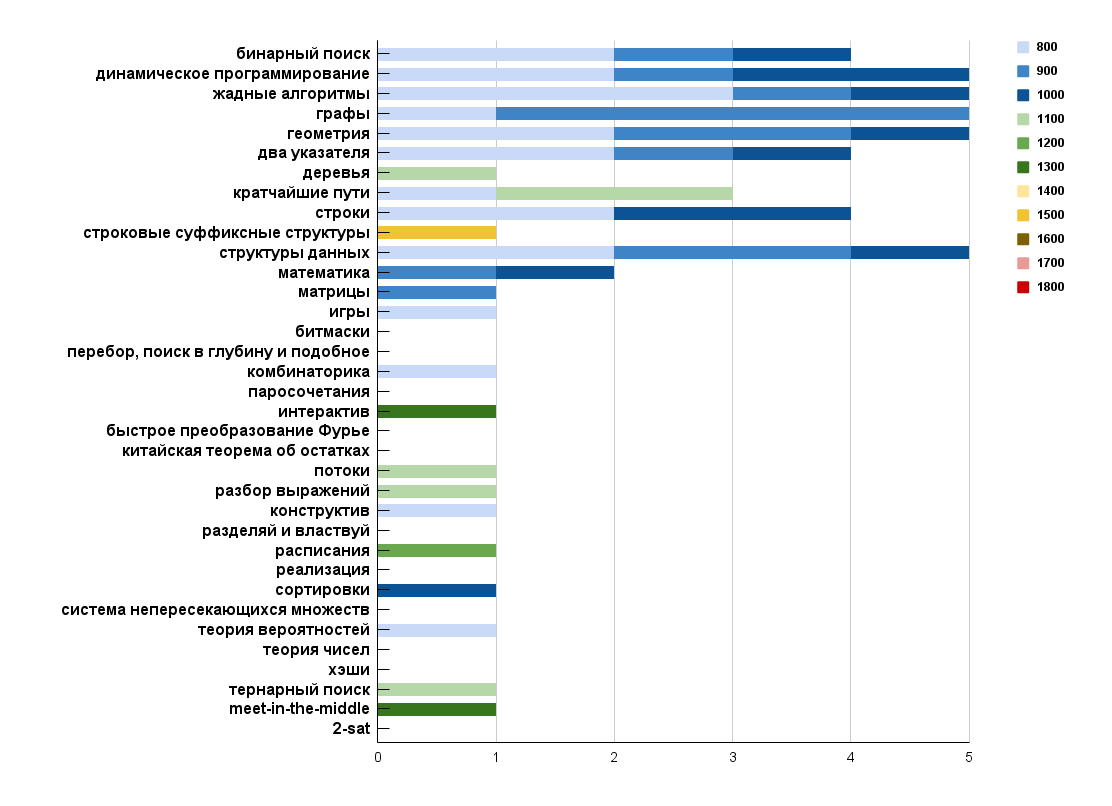
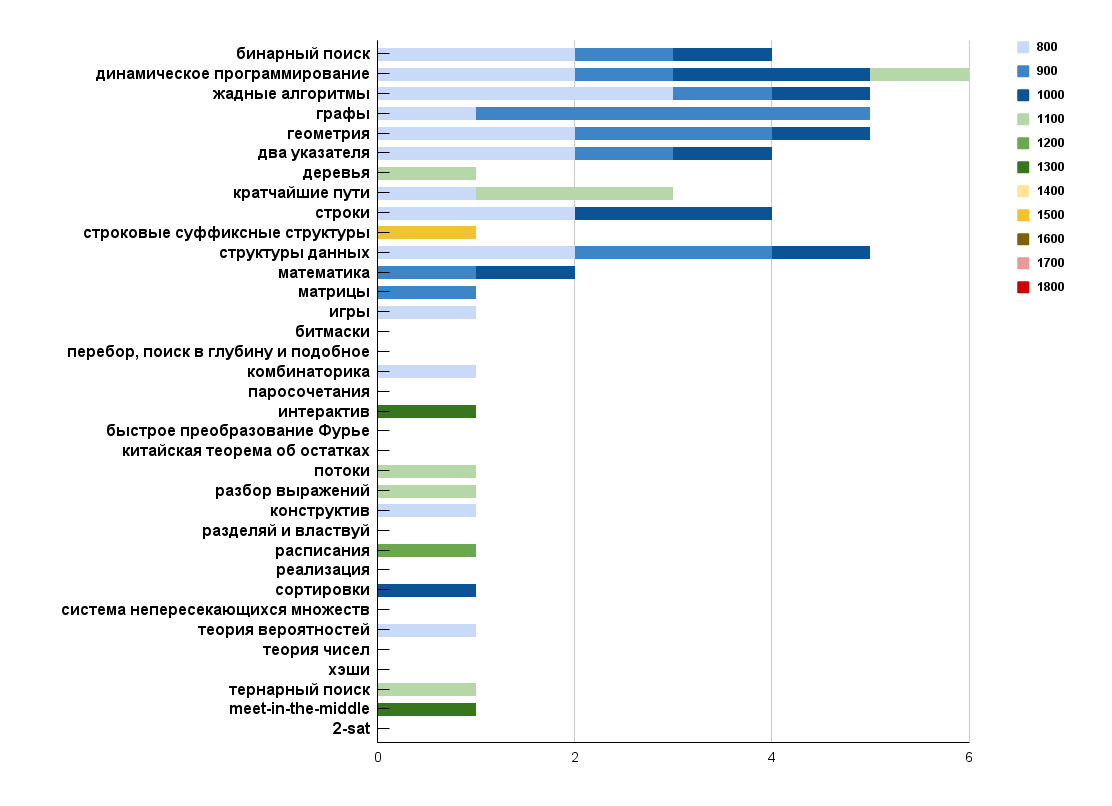
Solve 1100 in dp.

diff --git a/kotlin/CodeforcesArchive/src/main/kotlin/dp/compl_1100/1904B_Collection_game.kt b/kotlin/CodeforcesArchive/src/main/kotlin/dp/compl_1100/1904B_Collection_game.kt
@@ -1,0 +1,55 @@
+package dp.compl_1100
+
+fun main(){
+    val t = readln().toInt()
+    repeat(t){
+        val n = readln().toInt()
+        val a = readln().split(" ")
+            .map { it.toLong() }
+            .mapIndexed{ind, el -> el to ind + 1}
+            .toMutableList()
+        a.add(0, 0L to 0)
+        a.sortWith { pair1, pair2 ->
+            if (pair1.first > pair2.first){
+                1
+            }
+            else if (pair1.first < pair2.first){
+                -1
+            }
+            else {
+                if (pair1.second > pair2.second){
+                    1
+                }
+                else if (pair1.second < pair2.second){
+                    -1
+                }
+                else {
+                    0
+                }
+            }
+        }
+        //println(a)
+        val next = IntArray(n + 1)
+        val prefSum = LongArray(n + 1)
+        val ans = IntArray(n + 1)
+        for (i in 1..n){
+            if (next[i - 1] >= i){
+                next[i] = next[i - 1]
+                prefSum[i] = prefSum[i - 1]
+            }
+            else {
+                prefSum[i] = prefSum[i - 1] + a[i].first
+                next[i] = i
+                while (next[i] + 1 <= n && prefSum[i] >= a[next[i] + 1].first){
+                    ++next[i]
+                    prefSum[i] += a[next[i]].first
+                }
+            }
+            ans[a[i].second] = next[i]
+        }
+        for (i in 1..n){
+            print((ans[i] - 1).toString() + " ")
+        }
+        println()
+    }
+}

diff --git a/kotlin/CodeforcesArchive/src/main/kotlin/greedy/compl_1000/2039B_Shohag_loves_string.kt b/kotlin/CodeforcesArchive/src/main/kotlin/greedy/compl_1000/2039B_Shohag_loves_string.kt
@@ -28,6 +28,4 @@ fun main(){
             print(-1)
         println()
     }
-
-
 }
